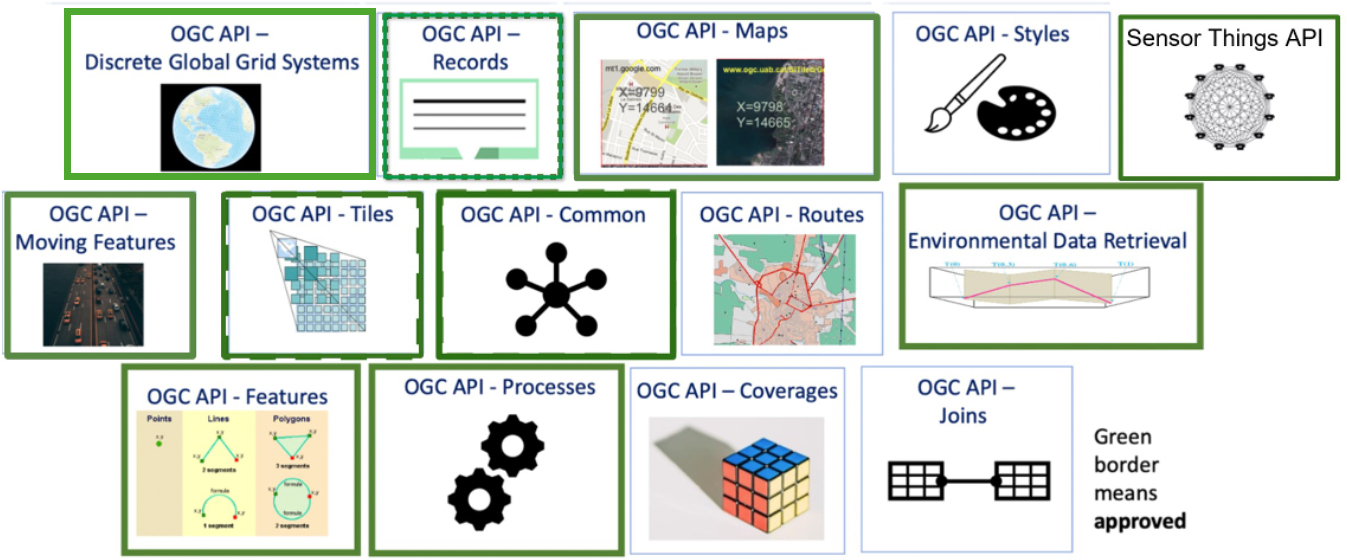
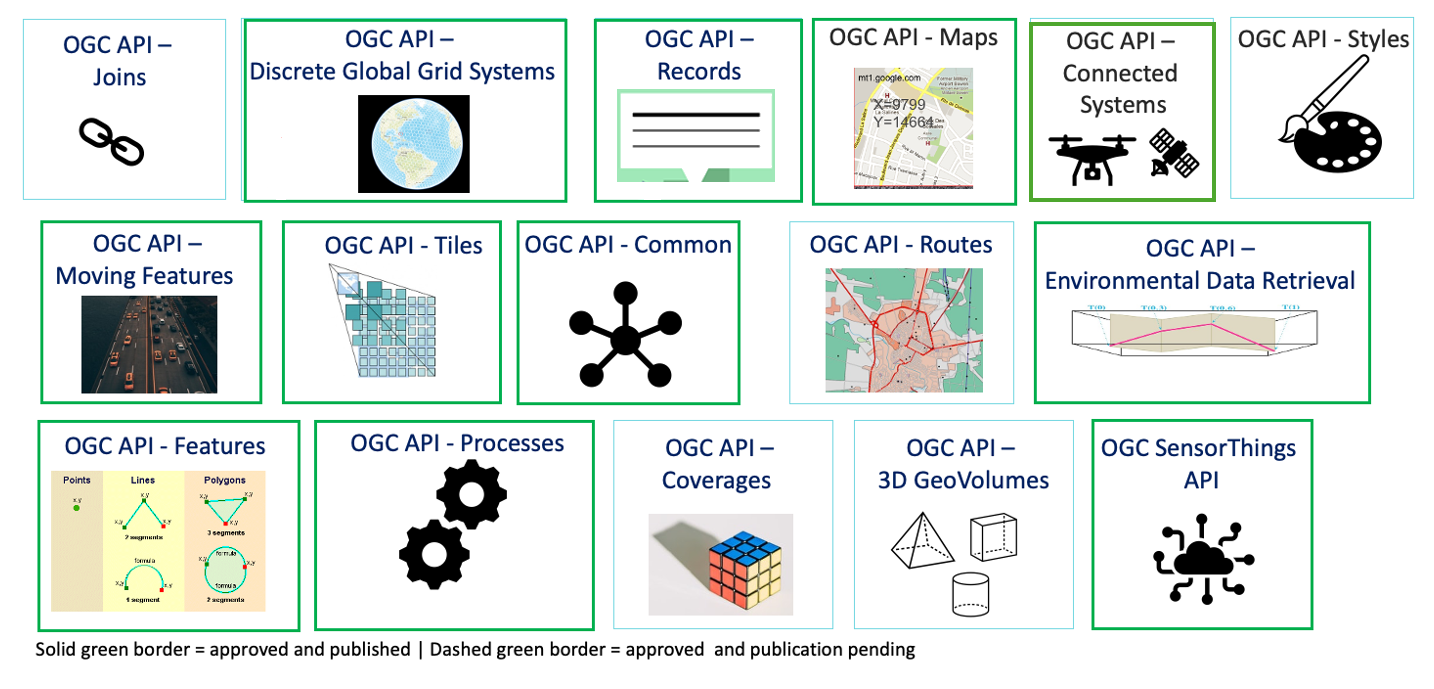
Updates to the workshop (#79)

diff --git a/workshop/content/docs/overview-and-main-concepts.md b/workshop/content/docs/overview-and-main-concepts.md
@@ -112,10 +112,10 @@ The below OGC API standards have been approved and available for use.  Note that
 - [OGC API - Maps](https://ogcapi.ogc.org/maps) offers a modern approach to the OGC Web Map Service (WMS) standard for provision map and raster content
 - [OGC API - Processes](https://ogcapi.ogc.org/processes) allows for processing tools to be called and combined from many sources and applied to data in other OGC API resources though a simple API
 - [OGC API - Tiles](https://ogcapi.ogc.org/tiles) provides extended functionality to other OGC API Standards to deliver vector tiles, map tiles, and other tiled data
-- [Moving Features](https://ogcapi.ogc.org/movingfeatures) defines an API that provides access to data representing features that move as rigid bodies
+- [OGC API - Moving Features](https://ogcapi.ogc.org/movingfeatures) defines an API that provides access to data representing features that move as rigid bodies
 - [OGC API - Records](https://ogcapi.ogc.org/records) provides discovery and access to metadata about geo spatial resources.
-- [Discrete Global Grid System](https://ogcapi.ogc.org/dggs) enables applications to organise and access data arranged according to a Discrete Global Grid System (DGGS)
-- [Connected Systems](https://ogcapi.ogc.org/connectedsystems/) is intended to act as a bridge between static data (geographic and other domain features) and dynamic data (observations of these feature properties, and commands/actuations that change these feature properties)
+- [OGC API - Discrete Global Grid Systems](https://ogcapi.ogc.org/dggs) enables applications to organise and access data arranged according to a Discrete Global Grid System (DGGS)
+- [OGC API - Connected Systems](https://ogcapi.ogc.org/connectedsystems/) is intended to act as a bridge between static data (geographic and other domain features) and dynamic data (observations of these feature properties, and commands/actuations that change these feature properties)
 
 ### OGC API building blocks
 

diff --git a/workshop/content/docs/api-deep-dive/common.md b/workshop/content/docs/api-deep-dive/common.md
@@ -41,7 +41,9 @@ title: OGC API - Common
 This specification identifies resources, captures compliance classes, and specifies requirements which are applicable to all OGC API standards.  It should be included as a normative reference by all such standards.
 
 * The **OGC API - Common - Part 1: Core** Standard defines the resources and operations which SHALL be common to all OGC API standards. This Standard defines the minimal requirements for an API to be discovered and used by any client.
-* The Draft **OGC API - Common - Part 2: Geospatial Data** Standard provides a common connection between the API landing page and resource-specific details. That connection includes metadata which describes the collections of hosted resources, common parameters for selecting subsets of those collections, and URI templates for identifying the above.
+* The Draft **OGC API - Common - Part 2: Geospatial Data** candidate Standard provides a common connection between the API landing page and resource-specific details. That connection includes metadata which describes the collections of hosted resources, common parameters for selecting subsets of those collections, and URI templates for identifying the above.
+* The Draft **OGC API - Common Part 3/OGC API - Features - Part 5: Schemas** candidate Standard allows to describe the logical schema associated with a collection of geospatial data.
+* The Draft **OGC API - Common Part 4: Discovery within many collections** candidate Standard extends the ```/collections``` endpoint defined in Part 2 with query parameters to retrieve only a subset of the collections; useful for API deployments where a large number of collections are available.
 
 In addition, OGC API - Common provides some non-normative information through the [OGC API-Common Users Guide](https://docs.ogc.org/DRAFTS/20-071.html).
 

diff --git a/workshop/content/docs/api-deep-dive/features.md b/workshop/content/docs/api-deep-dive/features.md
@@ -87,7 +87,7 @@ In addition to the approved parts above, The OGC API - Features Standards Workin
 
 * *Draft* **OGC API - Features - Part 4: Create, Replace, Update and Delete** defines the behaviour of an API that allows resource instances to be added, replaced, modified and/or removed for a collection.
 
-* *Draft* **OGC API - Features - Part 5: Schemas** specifies how features can be described by a logical schema and how such schemas are published in an OGC Web API implementation.
+* *Draft* **OGC API - Features - Part 5/OGC API - Common - Part 3: Schemas** specifies how features can be described by a logical schema and how such schemas are published in an OGC Web API implementation.
 
 * *Draft* **OGC API - Features - Part 6: Property Selection** specifies how the representation of a resource can be reduced to selected properties of the resource using a query parameter.
 
